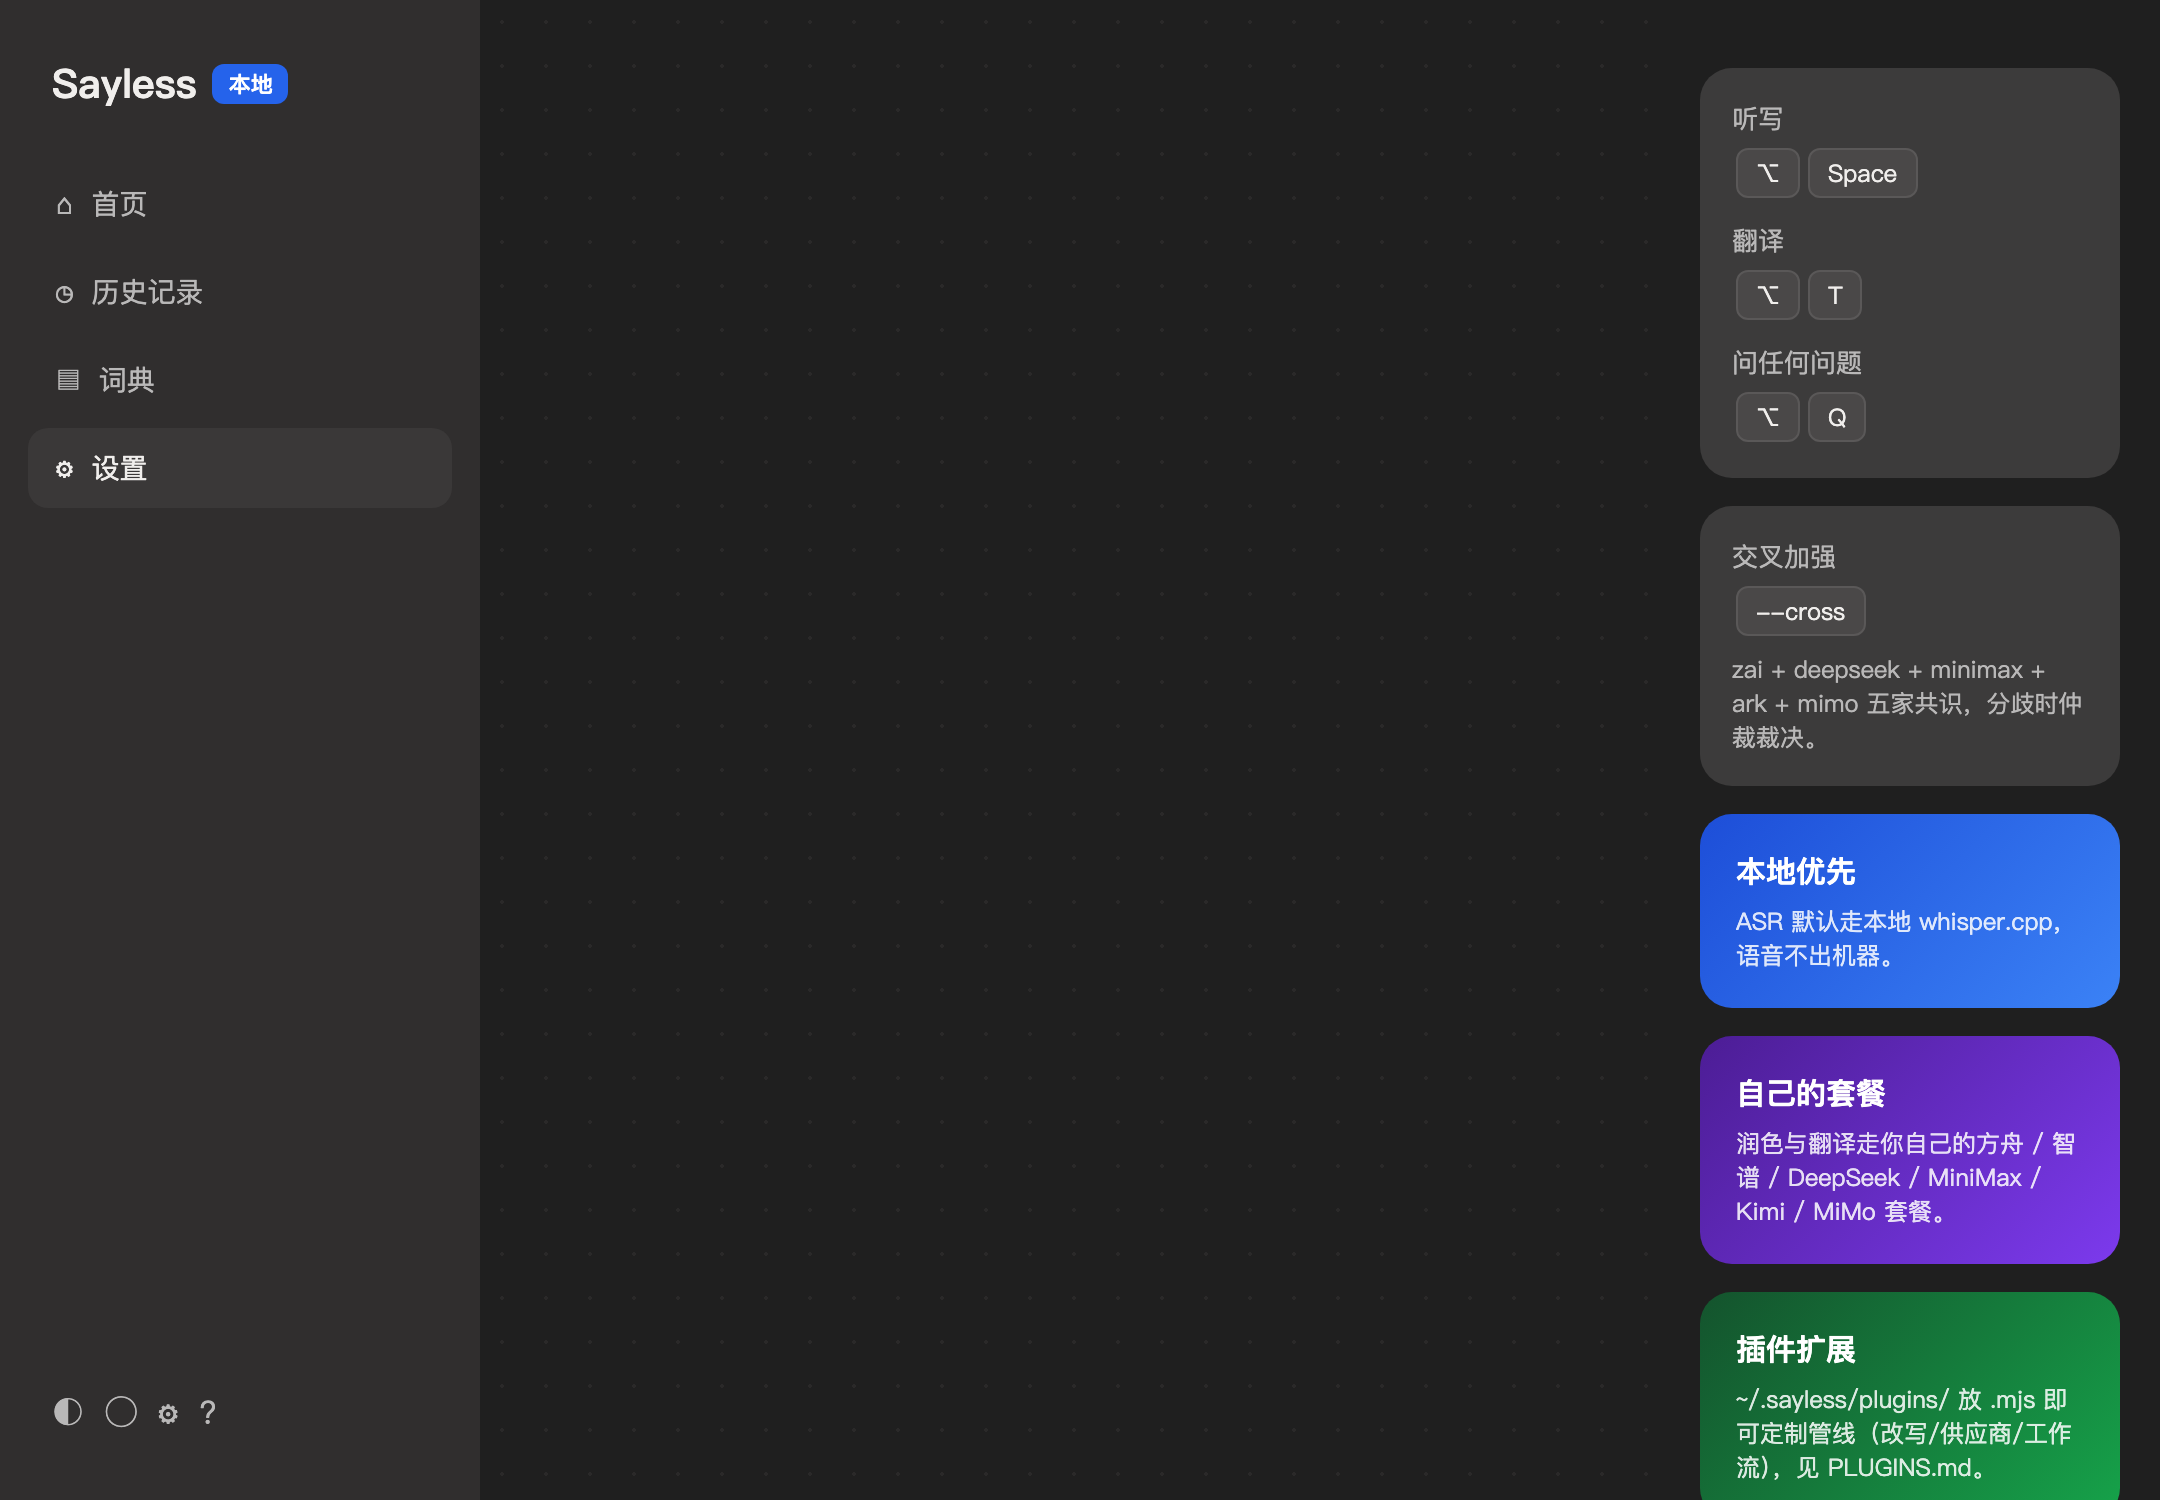
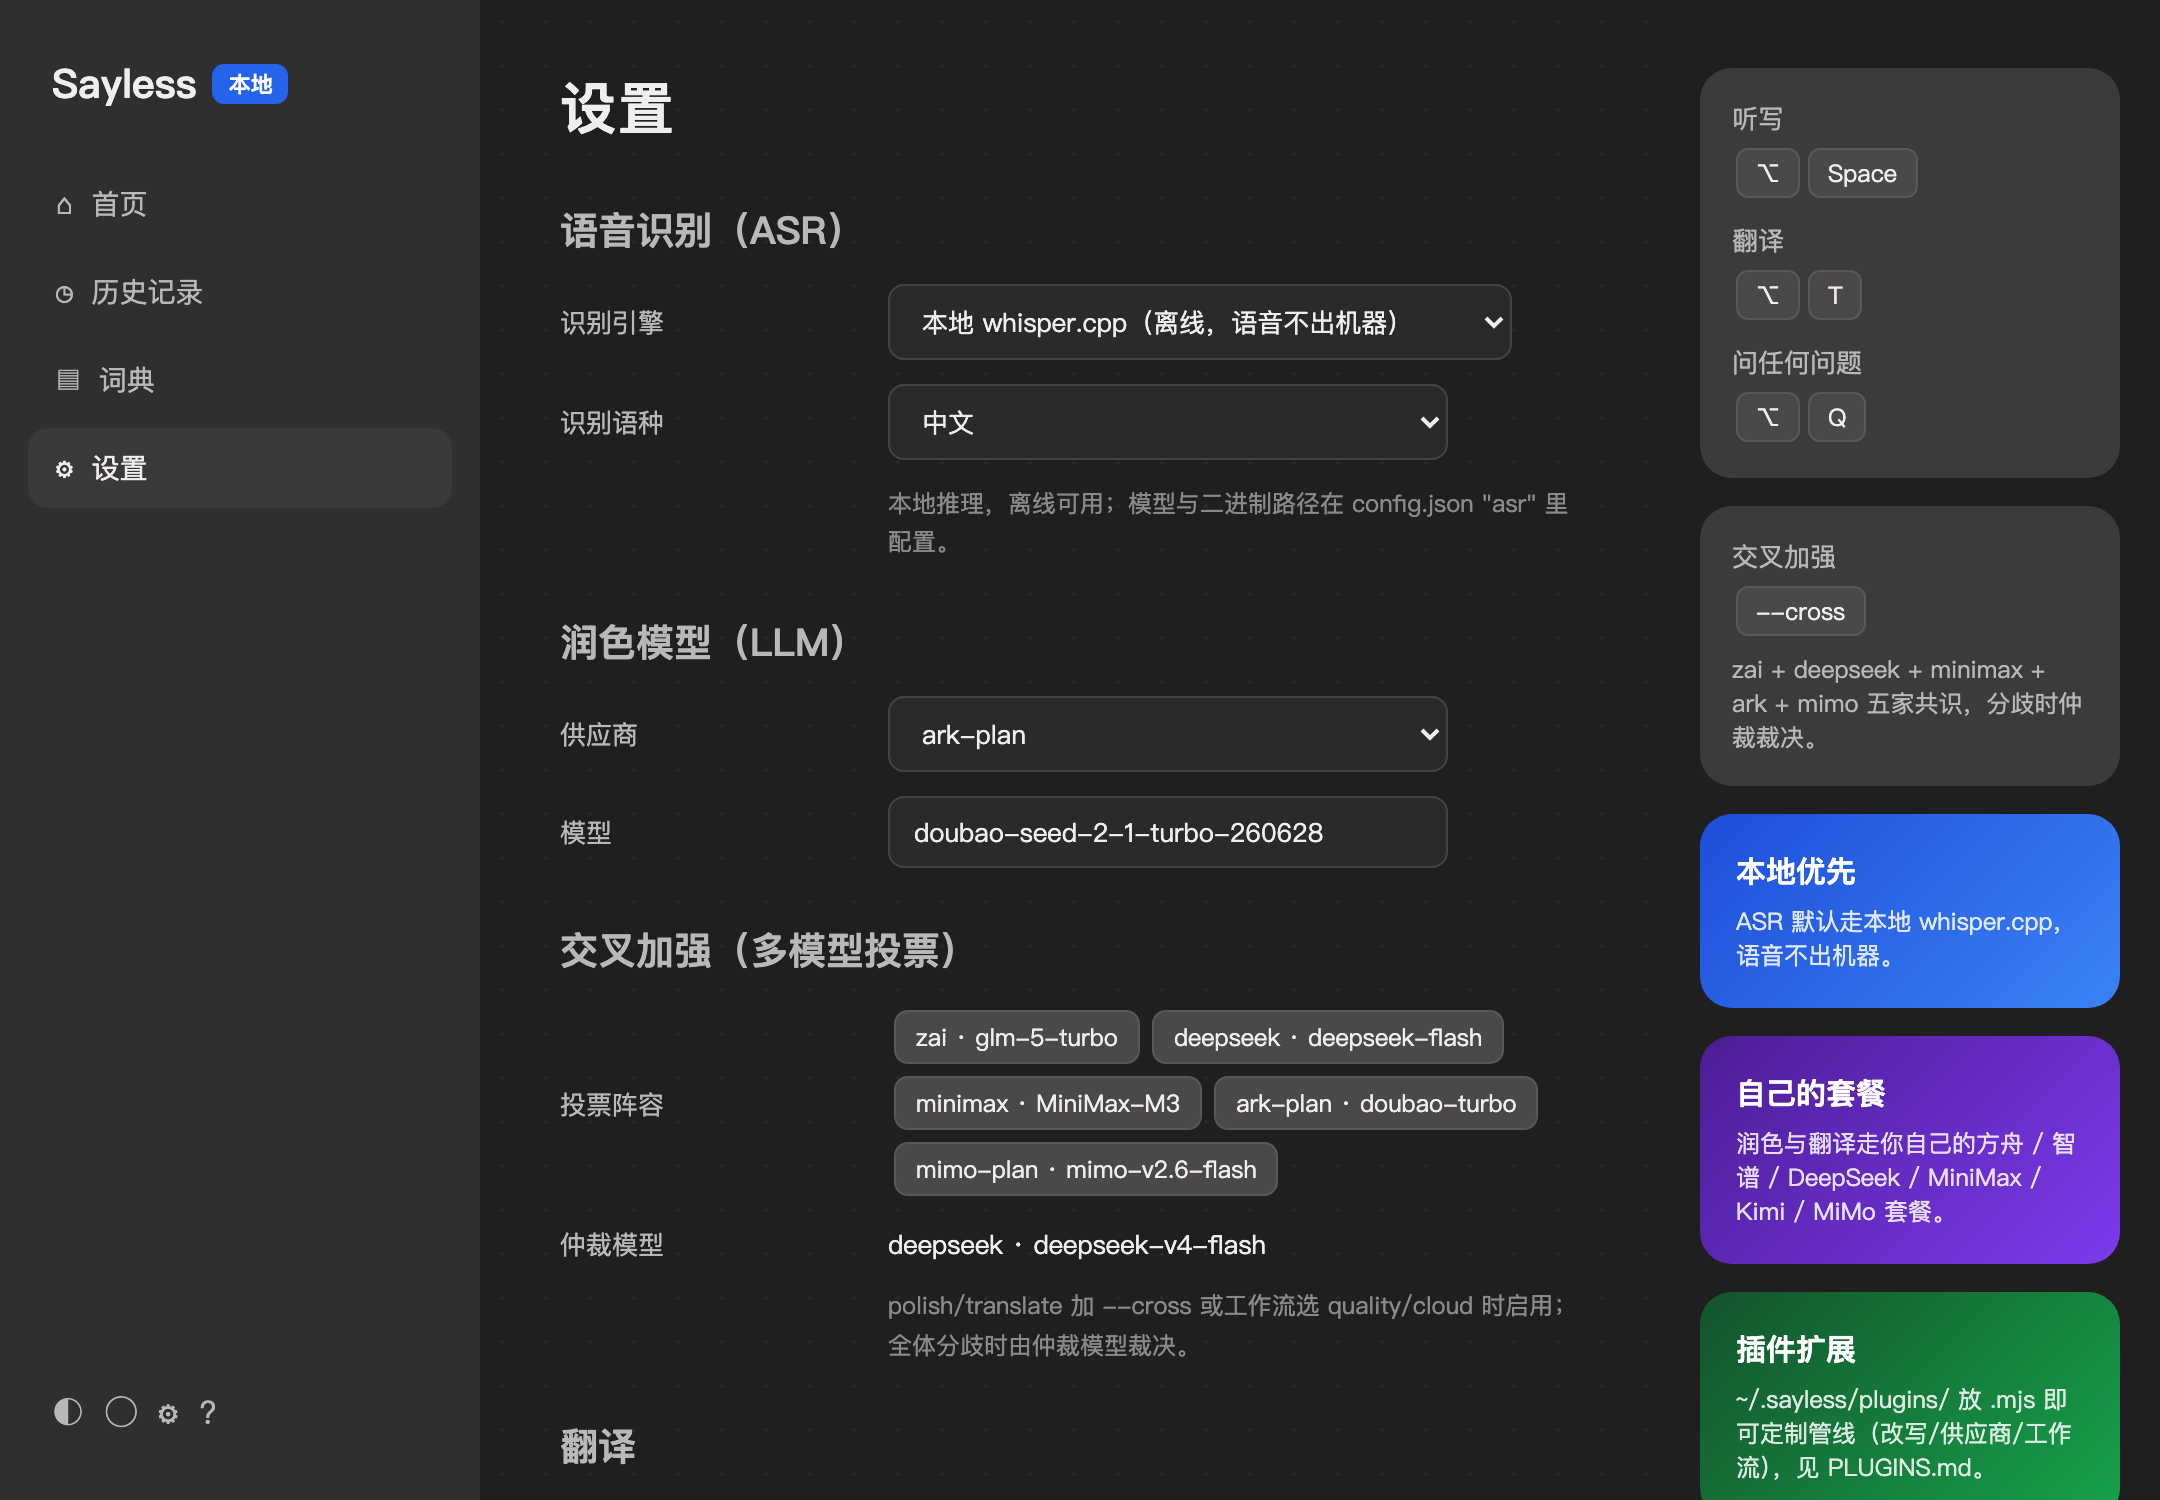
reposition as Typeless reverse-engineering learning project (non-commercial)
- README: prominent disclaimer banner at top, comparison reframed as
  RE-learning outcomes, license section updated
- LICENSE: MIT replaced with custom non-commercial learning license
  (clean-room statement, no-commercial-use clause, takedown clause)
- hub-settings.png: regenerate with settings tab actually visible
  (static render missed the JS-toggled tab class)

diff --git a/README.md b/README.md
@@ -1,5 +1,7 @@
 # Sayless
 
+> ⚠ **声明**：本项目是对 Typeless 应用进行**逆向工程的学习项目**，交互形态按 1:1 复刻仅作学习研究之用，**切勿用于任何商业用途**（详见 [LICENSE](LICENSE)）。与 Typeless 原开发者无任何隶属或授权关系。
+
 **本地优先的中文语音听写 / 翻译 / 问答管线**——录音 → 语音识别 → 词语库 → 多模型润色 → 粘贴进焦点应用，配上一个 Typeless 风格的菜单栏 App。
 
 干净的自研实现（不含任何第三方听写应用代码），模型走**你自己的套餐**，词语库和听写历史全部本地。
@@ -51,11 +53,11 @@ flowchart LR
 
 ## 与 Typeless 对比
 
-交互形态致敬 [Typeless](https://typeless.app)（浮条与 hub 按 1:1 复刻），代码为**完全独立的干净实现**（不含其任何代码与资源）。以下是产品定位上的实质差异（对比基于 Typeless 2.8.1 的公开行为与本机观察，2026-10）：
+本项目是 Typeless 的**逆向学习项目**：通过对其 2.8.1 版本的行为观察与本机分析，学习一款成熟听写产品的交互设计与工程形态，并按 1:1 复刻交互（浮条与 hub），代码为**完全独立的干净实现**（不含其任何代码与资源）。逆向过程中沉淀的差异（对比基于 Typeless 2.8.1 公开行为与本机观察，2026-10）：
 
 | 维度 | Typeless | Sayless |
 |---|---|---|
-| 定位 | 商业订阅产品 | 开源自托管工具（MIT，软件免费） |
+| 定位 | 商业订阅产品 | 逆向学习项目（非商用，软件免费） |
 | 模型费用 | 订阅费内含 | 走**你自己的套餐**（方舟 / 智谱 / DeepSeek / Kimi / MiMo…），花多少看得到 |
 | 语音识别 | 云端 ASR，语音上传服务方 | 默认**本地 whisper.cpp 离线**，语音不出机器；可切 MiMo / 方舟云端 |
 | 质量机制 | 单一管线 + 服务端质量网关 | 客户端 **5 家模型交叉投票 + 仲裁**，每条听写都是多数派共识 |
@@ -66,7 +68,7 @@ flowchart LR
 | 交互形态 | 浮条 + hub 面板 | 同形态 1:1（✕/波形/✓ 胶囊、洞察 + 热力图 hub、四页导航） |
 | 平台 | macOS | macOS，CLI 与菜单栏 App 可完全独立使用 |
 
-一句话：**Typeless 卖的是省心，Sayless 给的是控制权**——模型、数据、词库、管线每一环都握在自己手里。
+一句话：**Typeless 卖的是省心，Sayless 给的是控制权**——模型、数据、词库、管线每一环都握在自己手里。再次强调：本项目仅作逆向学习之用，**切勿商用**。
 
 ## 快速开始
 
@@ -253,4 +255,4 @@ flowchart LR
 
 ## License
 
-MIT
+**非商用学习项目**：仅供个人学习、研究与交流，严禁任何形式的商业使用（出售 / 付费分发 / SaaS / 闭源二次发行 / 并入商业产品）。详见 [LICENSE](LICENSE)。
